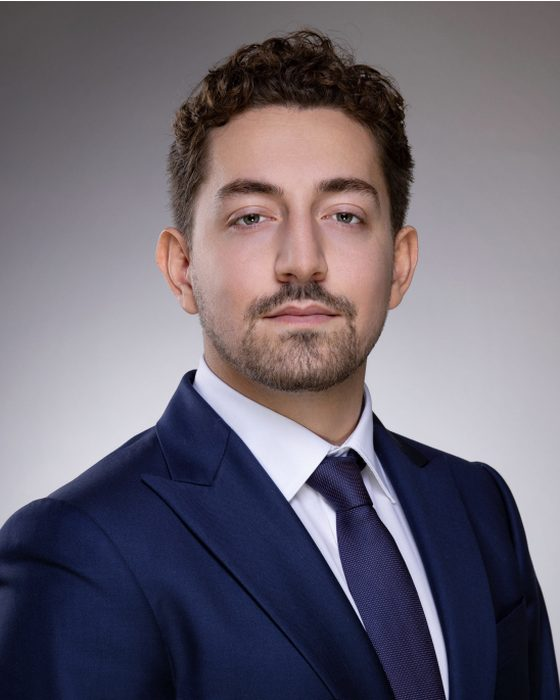
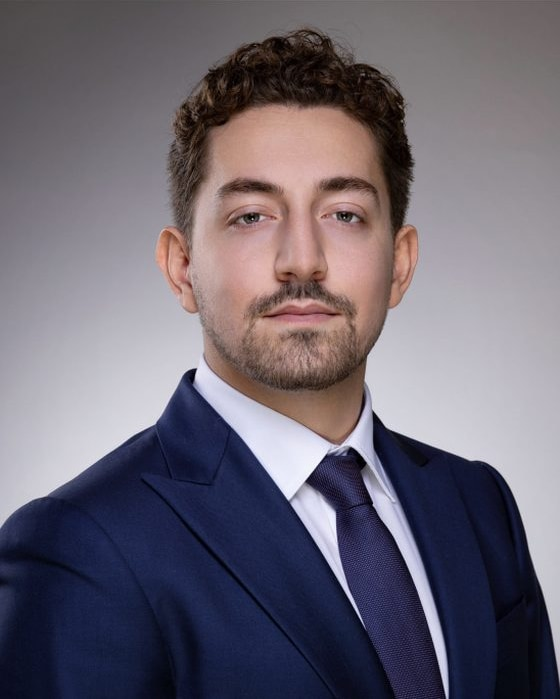
Cinq corrections : menu, portrait, ruban et wording de l accueil
1. Le titre de la page courante disparaissait dans le menu deroulant : .lien-actif force color:blanc, juste sur la barre sombre et le panneau mobile, mais blanc sur blanc dans le panneau clair. Corrige par une regle visant le seul deroulant, indigo sur lavande, contraste 6,64:1. 2. La photo du fondateur portait une ligne de pixels blancs sur toute sa largeur (luminance 253,7 contre 107 au fond) : recadree de 1 px, 560x699. Elle sert aussi d avatar aux 123 articles du blog. 3. Le ruban de la maquette annoncait Premium, nom d offre inexistant : les offres sont Starter et Smart. Remplace par Smart sur l accueil et l assistant ; le ruban passe de pleine largeur a 43 px. 4 et 5. Nouveau constat et nouvelle triade sur l accueil.

diff --git a/src/styles/global.css b/src/styles/global.css
@@ -69,6 +69,15 @@ button,input{font:inherit;color:inherit}
 .menu > li > button[aria-expanded="true"] .chevron{transform:rotate(180deg)}
 .sous a{display:block;padding:12px;border-radius:10px;text-decoration:none;min-height:44px}
 .sous a:hover{background:var(--lavande)}
+/* La page courante, dans le panneau BLANC du menu deroulant.
+   La regle generale .lien-actif force « color:var(--blanc) !important ». C'est
+   juste sur la barre sombre et dans le panneau mobile, tous deux sur fond
+   nuit — mais ici le panneau est blanc, et le titre devenait blanc sur blanc :
+   il disparaissait, tandis que sa description, qui porte sa propre couleur,
+   restait lisible. On ne vise donc QUE le deroulant, avec une specificite
+   superieure, et l'etat « tu es ici » se distingue du survol par la couleur du
+   texte et non par le seul fond. */
+.sous a.lien-actif{color:var(--indigo)!important;background:var(--lavande)!important}
 .sous strong{display:block;font-size:15px;font-weight:600}
 .sous span{display:block;font-size:13.5px;color:var(--encre-2);line-height:1.4}
 .nav .btn{padding:10px 18px;font-size:15px}
